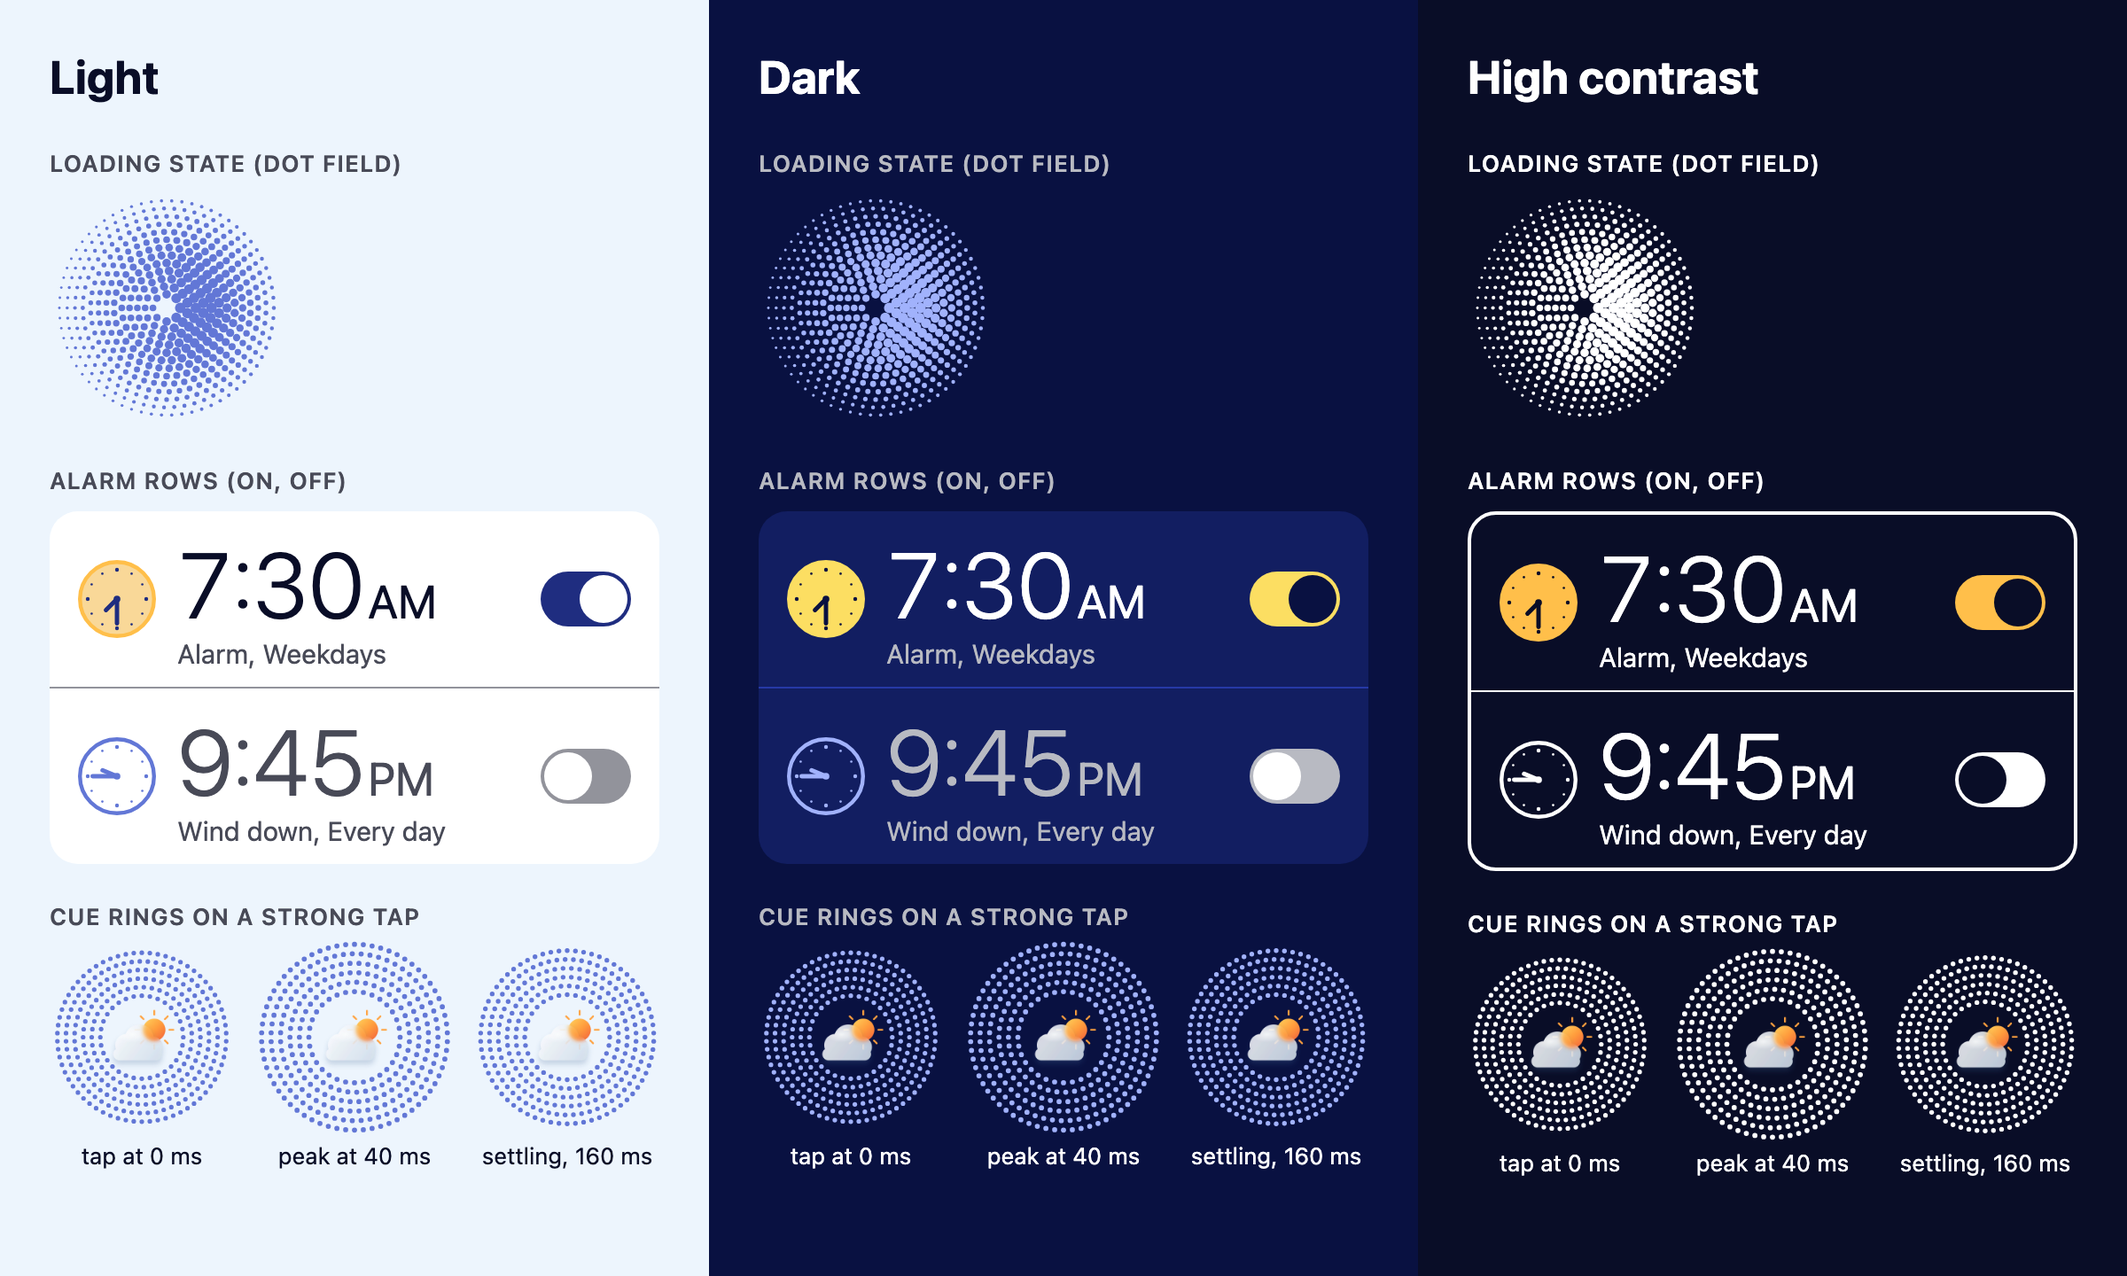
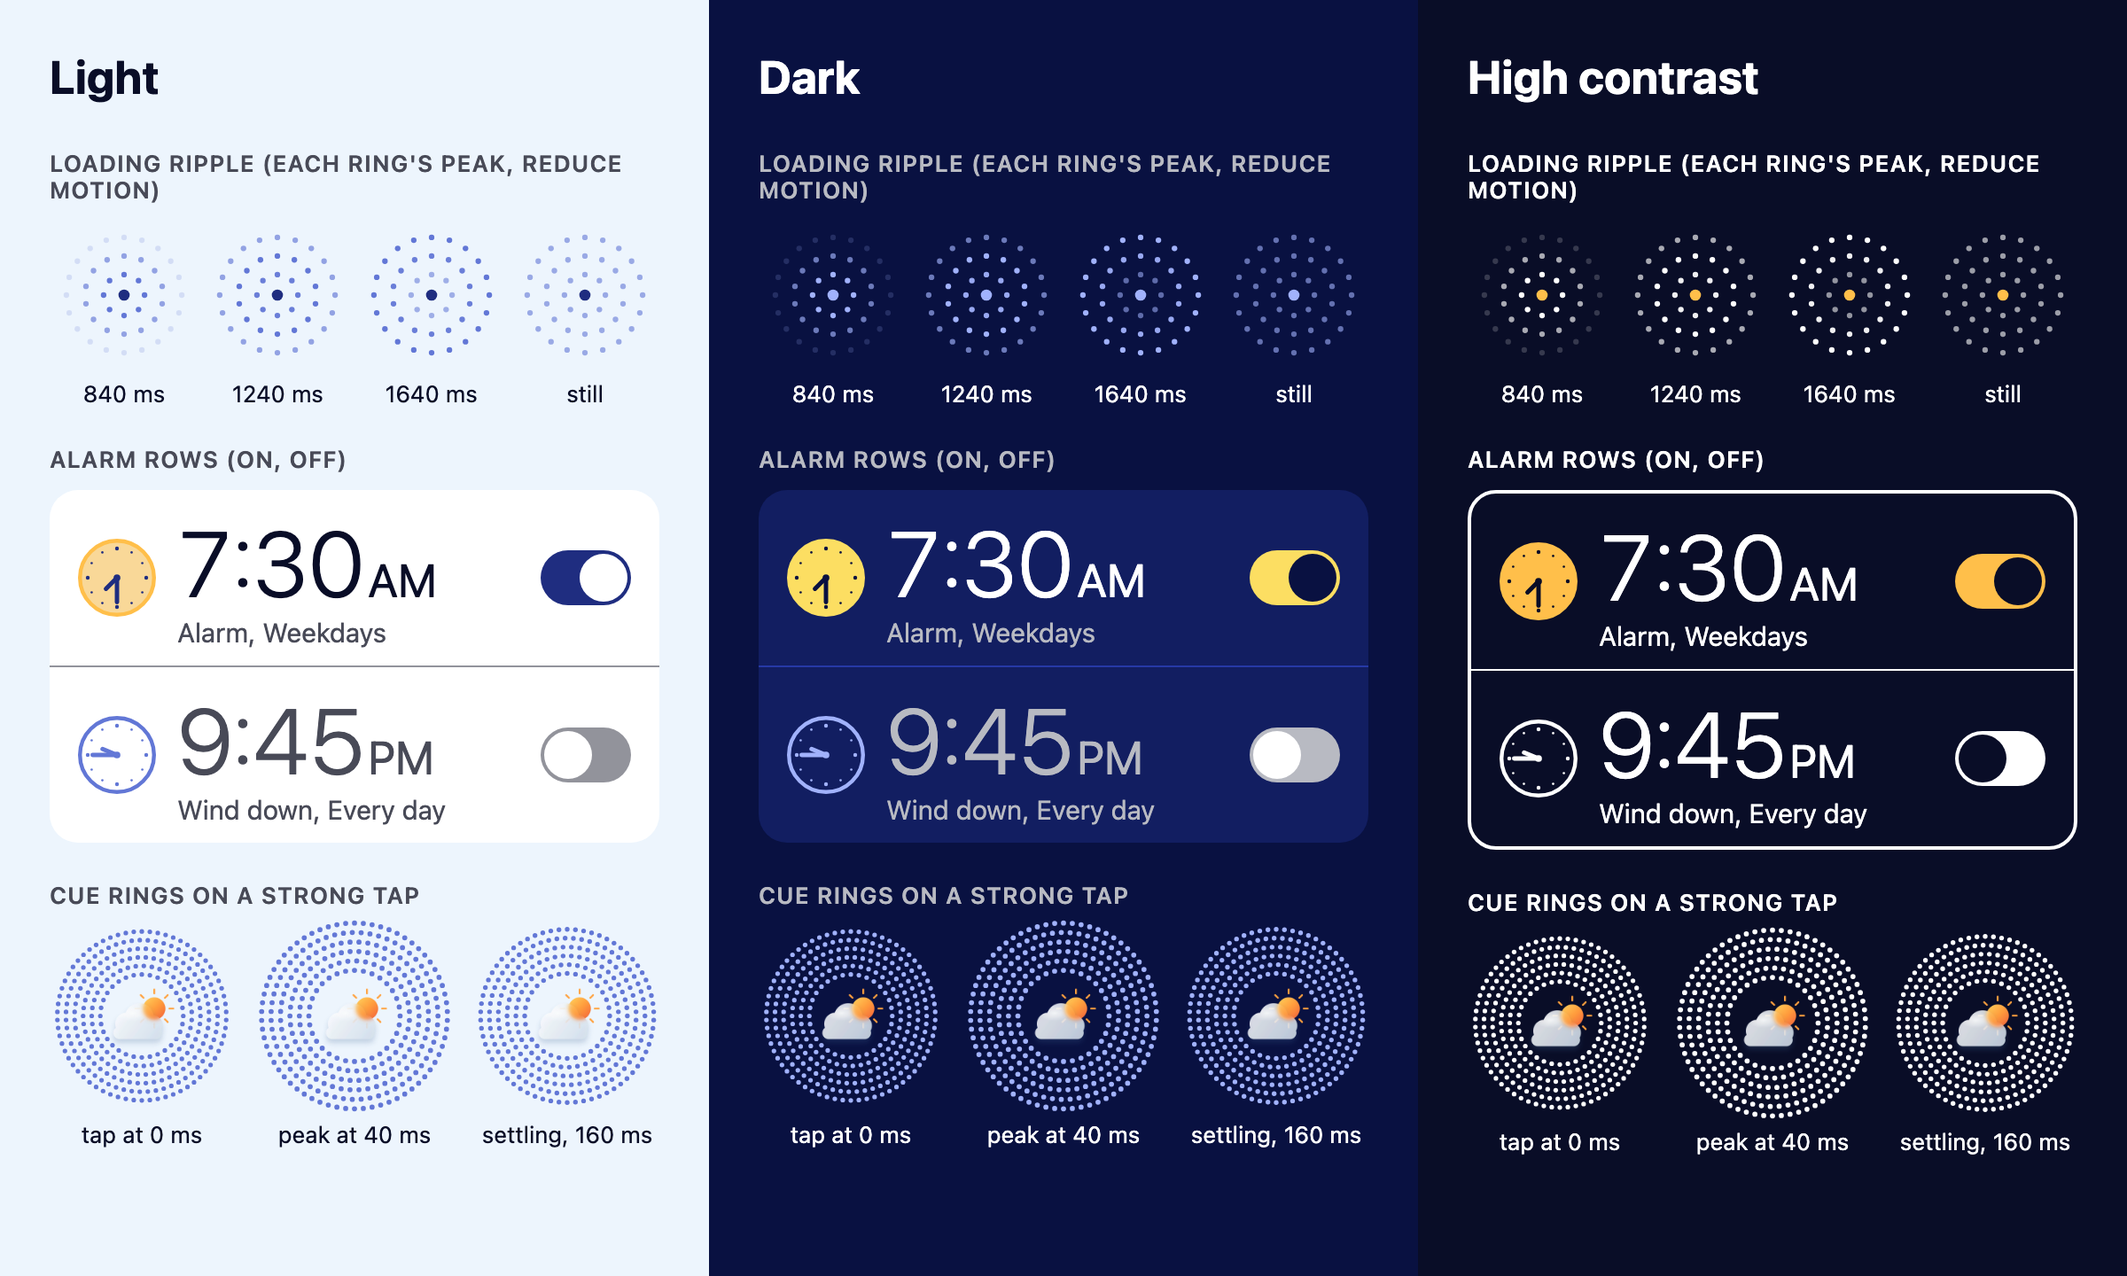
Replace the loading dot field with the Ripple loader
- New RippleLoader brand component (react-native-svg circles, 160pt): an
  accent center dot and three rings of dots that brighten in turn on a
  2.4 s loop, each ring animated as one layer; still at 0.6 with Reduce
  Motion; white rings and an amber center in high contrast.
- LoadingState ("Checking the sky…") uses it; HalftoneField and its
  geometry are removed (nothing else used them).
- Brand sheet shows the ripple at each ring's peak and still.

diff --git a/src/components/brand/geometry.ts b/src/components/brand/geometry.ts
@@ -1,14 +1,8 @@
-// The brand illustrations as plain data: dots, pills, and clock hands in a
+// The brand illustrations as plain data: dots and clock hands in a
 // fixed view box, scaled to any size by the components next to this file.
 // Pure (no imports), so scripts/render-brand-sheet.mjs draws exactly the
 // same shapes outside the app. Brand code never imports weather or alarm
 // code, so any screen can use it.
-
-// A round dot, or a pill: a rounded rect centered on x, y (wide for wind
-// dashes).
-export type Mark =
-  | { kind: 'dot'; x: number; y: number; r: number; opacity?: number }
-  | { kind: 'pill'; x: number; y: number; w: number; h: number; opacity?: number };
 
 // --- Clock sun -----------------------------------------------------------
 
@@ -70,99 +64,64 @@ export function clockSunShape(size: number, hour: number, minute: number): Clock
 
 export const SUN_CENTER = SUN_C;
 
-// --- Halftone field ------------------------------------------------------
+// --- Ripple loader -------------------------------------------------------
 
-// Drawn on a 240x240 grid, in a round field.
-export const FIELD_VIEW = 240;
-const C = FIELD_VIEW / 2;
-const FIELD_R = 114;
-// The empty middle of the field.
-const INNER_R = 12;
+// The loading animation ("Loading animation · 1 · Ripple"), on a 160x160
+// grid: a center dot and three rings of same-size dots that brighten in
+// turn, so light ripples outward.
+export const RIPPLE_VIEW = 160;
+const RIPPLE_C = RIPPLE_VIEW / 2;
+export const RIPPLE_CENTER_R = 6;
+export const RIPPLE_DOT_R = 3;
+const RIPPLE_RINGS = [
+  { count: 8, radius: 22 },
+  { count: 14, radius: 42 },
+  { count: 20, radius: 62 },
+];
 
-export type FieldPattern = 'radial' | 'rings' | 'dashes';
-
-export function halftoneMarks(pattern: FieldPattern): Mark[] {
-  const inner = INNER_R;
-  switch (pattern) {
-    case 'rings':
-      return rings(inner);
-    case 'radial':
-      return radial(inner);
-    case 'dashes':
-      return dashes(inner);
-  }
+// Each ring's dots, first dot at the top.
+export function rippleRings(): { x: number; y: number }[][] {
+  return RIPPLE_RINGS.map(({ count, radius }) =>
+    Array.from({ length: count }, (_, i) => {
+      const angle = -Math.PI / 2 + (i / count) * 2 * Math.PI;
+      return { x: round(RIPPLE_C + radius * Math.cos(angle)), y: round(RIPPLE_C + radius * Math.sin(angle)) };
+    }),
+  );
 }
+export const RIPPLE_CENTER = RIPPLE_C;
 
-// Frame 06: rings of dots from the middle to the edge. Dots shrink outward
-// and are a little bigger on the right, like halftone shading.
-function rings(inner: number): Mark[] {
-  const marks: Mark[] = [];
-  const first = inner + 2;
-  const count = Math.floor((FIELD_R - first) / 8) + 1;
-  for (let k = 0; k < count; k++) {
-    const radius = first + k * 8;
-    const t = (radius - 50) / 64;
-    const base = Math.max(1.5, 4.4 - Math.max(0, t) * 2.9);
-    const dots = Math.max(6, Math.round((2 * Math.PI * radius) / 10.5));
-    // Every other ring is offset half a step, so dots don't line up.
-    const offset = k % 2 === 0 ? 0 : Math.PI / dots;
-    for (let i = 0; i < dots; i++) {
-      const angle = offset + (i / dots) * 2 * Math.PI;
-      marks.push(dot(C + radius * Math.cos(angle), C + radius * Math.sin(angle), base * (1 + 0.22 * Math.cos(angle))));
-    }
-  }
-  return marks;
-}
+// Each ring's opacity goes RIPPLE_MIN -> 1 -> RIPPLE_MIN over RIPPLE_LOOP_MS
+// (ease-in-out), peaking RIPPLE_PEAK of the way through; ring 2 starts 0.4 s
+// after ring 1 and ring 3 0.8 s after. With Reduce Motion every ring holds
+// at RIPPLE_STILL.
+export const RIPPLE_LOOP_MS = 2400;
+export const RIPPLE_PEAK = 0.35;
+export const RIPPLE_MIN = 0.18;
+export const RIPPLE_DELAYS_MS = [0, 400, 800];
+export const RIPPLE_STILL = 0.6;
 
-// Frame 04: a burst of dots along rays, big near the middle and shrinking
-// outward.
-function radial(inner: number): Mark[] {
-  const marks: Mark[] = [];
-  const rays = 36;
-  for (let ray = 0; ray < rays; ray++) {
-    const angle = (ray / rays) * 2 * Math.PI;
-    for (let step = 0, radius = inner; radius <= 112; step++) {
-      const r = 3.6 - (Math.max(0, radius - 48) / 64) * 2.3;
-      // Near the middle the rays crowd together, so every other one starts
-      // further out.
-      if (ray % 2 === 0 || radius > 40) marks.push(dot(C + radius * Math.cos(angle), C + radius * Math.sin(angle), r));
-      radius += 6.5 + step * 0.6;
-    }
-  }
-  return marks;
-}
-
-// Frame 02: rows of horizontal oval dashes of different lengths, like
-// moving air, faint and strong.
-function dashes(inner: number): Mark[] {
-  const marks: Mark[] = [];
-  let n = 0;
-  for (let row = 0; 12 + row * 11 < FIELD_VIEW; row++) {
-    const y = 12 + row * 11;
-    const opacity = round(0.55 + noise(row + 300) * 0.45);
-    let x = 6 + noise(row + 200) * 10;
-    while (x < FIELD_VIEW) {
-      const w = 6 + Math.round(noise(n++) * 14);
-      const cx = x + w / 2;
-      const dy = Math.abs(y - C);
-      const clearOfHole = dy > inner || Math.abs(cx - C) > w / 2 + Math.sqrt(inner ** 2 - dy ** 2);
-      if (inField(x, y, 2) && inField(x + w, y, 2) && clearOfHole) {
-        marks.push({ kind: 'pill', x: round(cx), y, w, h: 3.6, opacity });
-      }
-      x += w + 5 + noise(n++) * 6;
-    }
-  }
-  return marks;
+// A ring's opacity `ms` after the animation starts (for previews; the app
+// runs the same curve in Reanimated).
+export function rippleOpacity(ring: number, ms: number): number {
+  const t = ms - RIPPLE_DELAYS_MS[ring];
+  if (t < 0) return RIPPLE_MIN;
+  const phase = (t % RIPPLE_LOOP_MS) / RIPPLE_LOOP_MS;
+  const rising = phase < RIPPLE_PEAK;
+  const local = rising ? phase / RIPPLE_PEAK : (phase - RIPPLE_PEAK) / (1 - RIPPLE_PEAK);
+  // Ease in-out (cubic), like Reanimated's Easing.inOut(Easing.cubic).
+  const eased = local < 0.5 ? 4 * local ** 3 : 1 - (-2 * local + 2) ** 3 / 2;
+  return rising ? RIPPLE_MIN + (1 - RIPPLE_MIN) * eased : 1 - (1 - RIPPLE_MIN) * eased;
 }
 
 // --- Dot rings -----------------------------------------------------------
 
-// Drawn on the same 240x240 grid. Frame 11: evenly spaced rings of
+// Drawn on a 240x240 grid. Frame 11: evenly spaced rings of
 // same-size dots around a hollow middle. Each dot has the index of its
 // ring, so rings can alternate colors.
 export type RingDot = { x: number; y: number; r: number; ring: number };
 
-export const RINGS_VIEW = FIELD_VIEW;
+export const RINGS_VIEW = 240;
+const C = RINGS_VIEW / 2;
 // The hollow middle's radius on the grid: anything placed in the middle
 // should stay inside it (a little under half the size).
 export const RINGS_HOLLOW = 50;
@@ -191,22 +150,6 @@ export const PULSE_RISE_MS = 40;
 export const PULSE_FALL_MS = 240;
 
 // --- Helpers -------------------------------------------------------------
-
-function dot(x: number, y: number, r: number): Mark {
-  return { kind: 'dot', x: round(x), y: round(y), r: round(r) };
-}
-
-// True if a point (with a margin) is inside the round field.
-function inField(x: number, y: number, margin = 0): boolean {
-  return Math.hypot(x - C, y - C) <= FIELD_R - margin;
-}
-
-// A fixed, repeatable 0-1 "random" number, so fields never change between
-// renders.
-function noise(n: number): number {
-  const x = Math.sin(n * 12.9898 + 78.233) * 43758.5453;
-  return x - Math.floor(x);
-}
 
 function round(n: number) {
   return Math.round(n * 100) / 100;

diff --git a/src/components/brand/ripple-loader.tsx b/src/components/brand/ripple-loader.tsx
@@ -1,0 +1,99 @@
+import { useEffect, useMemo } from 'react';
+import { StyleSheet, View } from 'react-native';
+import Animated, {
+  cancelAnimation,
+  Easing,
+  useAnimatedStyle,
+  useReducedMotion,
+  useSharedValue,
+  withDelay,
+  withRepeat,
+  withSequence,
+  withTiming,
+} from 'react-native-reanimated';
+import Svg, { Circle } from 'react-native-svg';
+
+import { useTheme } from '@/hooks/use-theme';
+
+import {
+  RIPPLE_CENTER,
+  RIPPLE_CENTER_R,
+  RIPPLE_DELAYS_MS,
+  RIPPLE_DOT_R,
+  RIPPLE_LOOP_MS,
+  RIPPLE_MIN,
+  RIPPLE_PEAK,
+  RIPPLE_STILL,
+  RIPPLE_VIEW,
+  rippleRings,
+} from './geometry';
+
+const EASE = Easing.inOut(Easing.cubic);
+
+// The loading animation ("Loading animation · 1 · Ripple"): a center dot in
+// the accent color and three rings of periwinkle dots (white in high
+// contrast) that brighten in turn, so light ripples outward. Each ring
+// fades as one layer, never dot by dot. Holds still at a soft middle
+// brightness with Reduce Motion. Decorative: hidden from screen readers
+// (the loading state has its own label).
+export function RippleLoader({ size = RIPPLE_VIEW }: { size?: number }) {
+  const { colors, illustration } = useTheme();
+  const rings = useMemo(() => rippleRings(), []);
+  return (
+    <View style={{ width: size, height: size }} accessibilityElementsHidden importantForAccessibility="no-hide-descendants">
+      {rings.map((dots, i) => (
+        <RippleRing key={i} index={i} dots={dots} size={size} color={illustration.dots} />
+      ))}
+      <Svg width={size} height={size} viewBox={`0 0 ${RIPPLE_VIEW} ${RIPPLE_VIEW}`} style={StyleSheet.absoluteFill}>
+        <Circle cx={RIPPLE_CENTER} cy={RIPPLE_CENTER} r={RIPPLE_CENTER_R} fill={colors.accent} />
+      </Svg>
+    </View>
+  );
+}
+
+function RippleRing({
+  index,
+  dots,
+  size,
+  color,
+}: {
+  index: number;
+  dots: { x: number; y: number }[];
+  size: number;
+  color: string;
+}) {
+  const reduceMotion = useReducedMotion();
+  const opacity = useSharedValue(reduceMotion ? RIPPLE_STILL : RIPPLE_MIN);
+
+  useEffect(() => {
+    cancelAnimation(opacity);
+    if (reduceMotion) {
+      opacity.value = RIPPLE_STILL;
+      return;
+    }
+    opacity.value = RIPPLE_MIN;
+    opacity.value = withDelay(
+      RIPPLE_DELAYS_MS[index],
+      withRepeat(
+        withSequence(
+          withTiming(1, { duration: RIPPLE_LOOP_MS * RIPPLE_PEAK, easing: EASE }),
+          withTiming(RIPPLE_MIN, { duration: RIPPLE_LOOP_MS * (1 - RIPPLE_PEAK), easing: EASE }),
+        ),
+        -1,
+      ),
+    );
+    return () => cancelAnimation(opacity);
+  }, [index, opacity, reduceMotion]);
+
+  const style = useAnimatedStyle(() => ({ opacity: opacity.value }));
+
+  return (
+    <Animated.View style={[StyleSheet.absoluteFill, style]}>
+      <Svg width={size} height={size} viewBox={`0 0 ${RIPPLE_VIEW} ${RIPPLE_VIEW}`}>
+        {dots.map((dot, i) => (
+          <Circle key={i} cx={dot.x} cy={dot.y} r={RIPPLE_DOT_R} fill={color} />
+        ))}
+      </Svg>
+    </Animated.View>
+  );
+}

diff --git a/src/components/status-states.tsx b/src/components/status-states.tsx
@@ -3,16 +3,15 @@ import { Pressable, StyleSheet, Text, View } from 'react-native';
 import { radius, spacing, type Theme } from '@/constants/theme';
 import { useTheme } from '@/hooks/use-theme';
 
-import { HalftoneField } from './brand';
+import { RippleLoader } from './brand';
 
-// A slowly breathing dot field instead of a spinner (still with Reduce
-// Motion).
+// A ripple of dots instead of a spinner (still with Reduce Motion).
 export function LoadingState() {
   const styles = createStyles(useTheme());
 
   return (
     <View style={styles.container} accessible accessibilityLabel="Loading the weather">
-      <HalftoneField size={160} pattern="rings" breathing />
+      <RippleLoader size={160} />
       <Text style={styles.message}>Checking the sky…</Text>
     </View>
   );

diff --git a/src/components/brand/index.ts b/src/components/brand/index.ts
@@ -2,6 +2,5 @@
 // weather or alarm code), so every feature can use them.
 export { ClockSun } from './clock-sun';
 export { DotRings, type PulseSource } from './dot-rings';
-export type { FieldPattern } from './geometry';
-export { HalftoneField } from './halftone-field';
+export { RippleLoader } from './ripple-loader';
 export { useBreathing } from './use-breathing';

diff --git a/CLAUDE.md b/CLAUDE.md
@@ -69,9 +69,9 @@ The teammate's frames in `design/frames/` (06 Weather home through 12 Preference
 - The Weather hero (`src/components/weather-hero.tsx`) is the most significant condition's PNG (`image` in the condition profiles, from `assets/icons/weather-icons/`), 220pt, centered, with nothing drawn around it. It breathes slowly (`useBreathing`), holds still with Reduce Motion, and tapping it replays the sound and vibration.
 - Brand illustrations (`src/components/brand/`, colors from `theme.illustration`: dots, sun, sunFace, hands, plus the frame-11 alert colors). They're theme-only and must never import weather or alarm code. All are hidden from VoiceOver and hold still with Reduce Motion. Their shapes are pure data in `brand/geometry.ts`.
   - `ClockSun`: the amber clock-face sun, `live` (real time via `useMinuteClock`) or a fixed `hour`/`minute`; `dimmed` for an outline-only off state. Used in each alarm row (its time, dimmed when off) and the Alarms empty state (large, live). The Alarms tab header is just the title (no illustration), since every row already has its own ClockSun.
-  - `HalftoneField`: the periwinkle dot field, `pattern` = `rings` (frame 06), `radial` (04), or `dashes` (02), optional `breathing`. Used only as the breathing loading state.
+  - `RippleLoader` (`ripple-loader.tsx`, the "Loading animation · 1 · Ripple" mockup): the loading state under "Checking the sky…" (`LoadingState` in `src/components/status-states.tsx`, label "Loading the weather"). 160pt on a 160x160 grid: a center dot (radius 6, `accent`) and three rings of radius-3 dots in `illustration.dots` (8 on radius 22, 14 on 42, 20 on 62; first dot at the top). Each ring fades as one layer, 0.18 → 1 → 0.18 over 2.4 s ease-in-out, peaking at 35%, with ring 2 starting 0.4 s and ring 3 0.8 s after ring 1, so light ripples outward. Reduce Motion: all rings hold at 0.6. High contrast: white rings, amber center. Center dot on the background: 10.9:1 light, 8.8:1 dark, 11.7:1 high contrast; rings at full brightness 3.7:1, 8.8:1, 19.1:1. Shape and timing are data in `geometry.ts` (`rippleRings`, `rippleOpacity`). (The old breathing `HalftoneField` dot field is gone.)
   - `DotRings`: concentric rings (frame 11) that pulse from a `pulses` source; scale only, never brightness, so fast taps can't flash. Condition detail (`src/components/cue-illustration.tsx`) puts the condition PNG in the middle and pulse the rings on each tap from `hapticPlayer.subscribeTaps`, which fires in the same timer as the vibration, so the timing matches exactly (no taps, and so no pulses, when Vibration is off).
-  - After changing any of them, run `node scripts/render-brand-sheet.mjs` to redraw `design/previews/brand-elements.png` (the loading dot field, alarm rows, pulse frames in all three themes).
+  - After changing any of them, run `node scripts/render-brand-sheet.mjs` to redraw `design/previews/brand-elements.png` (the loading ripple at each ring's peak and still, alarm rows, pulse frames in all three themes).
   - Still to come: onboarding (frames 02-04) and the weather warning screen (frame 11) will use these same components. The warning screen's "Weather warning" label icon must be the dotted "!" (`SevereAlertIcon`, the severe-alert profile's `icon`), not a triangle, so every alert icon matches. The severe alert hero PNG (`13-severe-alert.png`) stays as is.
 - Weather screen: location top left with All sounds (white, label "All sounds", opens the Sound library; its `SoundsIcon` is design option "5 · Play": a ring of 16 small dots around a play triangle of 10 bigger dots, on a `-1 -1 26 26` viewBox, drawn at 28pt; reference image `design/icons/all-sounds-icon.png`, reference only, not used by the app) and the quick mute (deepBlue) as 56pt rounded square buttons (`SquareButton`) top right; there is no Settings button; the greeting as the headline; the hero right under it; condition name and big temperature left-aligned with today's High/Low on the right, on the number's baseline (`useTextTrim`). Then the sun card: Sunrise and Sunset times with dotted half-sun icons (an up arrow for sunrise, a down arrow for sunset), the daylight-left line ("Sunrise in …" at night), and under it the daylight bar (`src/components/daylight-bar.tsx`). The bar is a row of dots, `accent` for the daylight passed and `progressTrack` for the rest (at least 3:1 apart in every theme, checked in development), with an amber "now" dot at the boundary. It's empty with no now dot before sunrise and full with no now dot after sunset, fills over 600 ms when it first appears (still with Reduce Motion), and then moves once a minute. VoiceOver reads the card as one item ending in "29 percent of daylight passed". After it come the hourly and 5-day forecasts, with their headlines above the cards. `WeatherData.daily` is today and the next four days. NWS builds it by grouping its hourly forecast by day and drops a later day with under 18 hours (its last day is usually partial), and a forecast saved before this change has 3 days. So the headline counts the days shown ("4-day forecast"), and nothing pads missing rows. Each row has Today or the weekday, the dotted condition icon, the condition name, and high and low (frame 07), and VoiceOver reads it as one item: "Saturday, light rain, high 68, low 57".
 - Tabs stay native (`NativeTabs`), tinted deepBlue in light mode; no custom tab bar.
